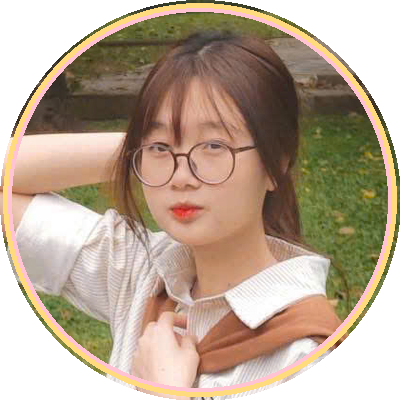
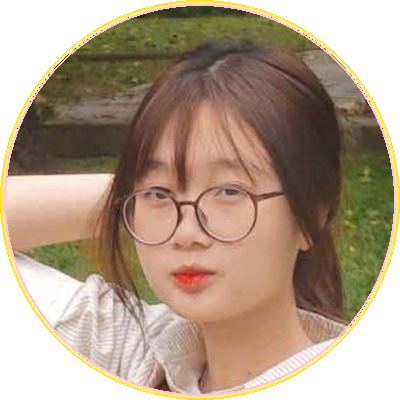
Nâng cấp vườn hoa Ánh Tuyết: hiển thị trọn vẹn 9 ảnh trên hoa, vườn hoa nở rộ dày dặn, sửa hoàn hảo bố cục album & căn chỉnh khuôn mặt chuẩn đẹp

diff --git a/main.js b/main.js
@@ -244,14 +244,14 @@ function buildGarden() {
 
   const flowerItems = [];
 
-  // TẦNG 1: Dưới thấp ôm chân vườn (Thoáng đãng, có thân cành vươn lên)
-  const countT1 = isMobile ? 8 : 13;
+  // TẦNG 1: Dưới thấp ôm chân vườn (Dày dặn, nhiều hoa như ban đầu)
+  const countT1 = isMobile ? 10 : 18;
   for (let i = 0; i < countT1; i++) {
     const xPct = (i / (countT1 - 1)) * 96 + 2 + (rand() * 4 - 2);
     flowerItems.push({
       xPct: Math.max(1, Math.min(99, xPct)),
-      sizePx: Math.floor((100 + rand() * 30) * sizeScale),
-      heightPx: Math.floor(containerHeight * (0.16 + rand() * 0.12)),
+      sizePx: Math.floor((95 + rand() * 30) * sizeScale),
+      heightPx: Math.floor(containerHeight * (0.15 + rand() * 0.13)),
       type: 'rose',
       layer: 28,
       palette: gardenPalette(i),
@@ -262,13 +262,13 @@ function buildGarden() {
   }
 
   // TẦNG 2: Tầm trung cận cảnh
-  const countT2 = isMobile ? 7 : 12;
+  const countT2 = isMobile ? 9 : 16;
   for (let i = 0; i < countT2; i++) {
     const xPct = ((i + 0.5) / countT2) * 94 + 3 + (rand() * 4 - 2);
     flowerItems.push({
       xPct: Math.max(2, Math.min(98, xPct)),
-      sizePx: Math.floor((110 + rand() * 28) * sizeScale),
-      heightPx: Math.floor(containerHeight * (0.30 + rand() * 0.14)),
+      sizePx: Math.floor((105 + rand() * 28) * sizeScale),
+      heightPx: Math.floor(containerHeight * (0.28 + rand() * 0.14)),
       type: 'rose',
       layer: 22,
       palette: gardenPalette(i + 2),
@@ -279,14 +279,14 @@ function buildGarden() {
   }
 
   // TẦNG 3: Tầng hoa vươn cao hé thân lá xanh
-  const countT3 = isMobile ? 6 : 11;
+  const countT3 = isMobile ? 8 : 14;
   for (let i = 0; i < countT3; i++) {
     const xPct = (i / (countT3 - 1)) * 94 + 3 + (rand() * 4 - 2);
-    if (Math.abs(xPct - 50) < 7) continue;
+    if (Math.abs(xPct - 50) < 6) continue;
     flowerItems.push({
       xPct: Math.max(2, Math.min(98, xPct)),
-      sizePx: Math.floor((88 + rand() * 26) * sizeScale),
-      heightPx: Math.floor(containerHeight * (0.46 + rand() * 0.14)),
+      sizePx: Math.floor((85 + rand() * 25) * sizeScale),
+      heightPx: Math.floor(containerHeight * (0.44 + rand() * 0.15)),
       type: 'rose',
       layer: 16,
       palette: gardenPalette(i + 4),
@@ -297,16 +297,16 @@ function buildGarden() {
   }
 
   // TẦNG 4: Hoa cúc xoắn và nụ hoa cao thanh thoát trên nền trời
-  const countT4 = isMobile ? 5 : 8;
+  const countT4 = isMobile ? 6 : 11;
   for (let i = 0; i < countT4; i++) {
     const xPct = (i / (countT4 - 1)) * 92 + 4 + (rand() * 4 - 2);
-    if (Math.abs(xPct - 50) < 9) continue;
+    if (Math.abs(xPct - 50) < 7) continue;
     const r = rand();
     const type = r < 0.4 ? 'button' : (r < 0.75 ? 'bud' : 'rose');
     flowerItems.push({
       xPct: Math.max(2, Math.min(98, xPct)),
-      sizePx: Math.floor((type === 'bud' ? 46 : 60 + rand() * 25) * sizeScale),
-      heightPx: Math.floor(containerHeight * (0.62 + rand() * 0.16)),
+      sizePx: Math.floor((type === 'bud' ? 44 : 58 + rand() * 24) * sizeScale),
+      heightPx: Math.floor(containerHeight * (0.60 + rand() * 0.17)),
       type,
       layer: 10,
       palette: gardenPalette(i + 1),
@@ -317,13 +317,13 @@ function buildGarden() {
   }
 
   // NỤ HOA ĐIỂM XUYẾT MÀU SẮC
-  const budCount = isMobile ? 4 : 7;
+  const budCount = isMobile ? 5 : 9;
   for (let i = 0; i < budCount; i++) {
     const xPct = ((i + 0.5) / budCount) * 94 + 3 + (rand() * 4 - 2);
     flowerItems.push({
       xPct: Math.max(2, Math.min(98, xPct)),
-      sizePx: Math.floor((42 + rand() * 14) * sizeScale),
-      heightPx: Math.floor(containerHeight * (0.35 + rand() * 0.25)),
+      sizePx: Math.floor((40 + rand() * 14) * sizeScale),
+      heightPx: Math.floor(containerHeight * (0.34 + rand() * 0.25)),
       type: 'bud',
       budVariant: BUD_VARIANTS[i % BUD_VARIANTS.length],
       layer: 14,
@@ -334,23 +334,32 @@ function buildGarden() {
     });
   }
 
-  // 5 ĐÓA HOA CÔNG CHÚA CỦA ÁNH TUYẾT - TO VÀ RÕ NÉT CẬN MẶT
+  // 9 ĐÓA HOA CÔNG CHÚA CỦA ÁNH TUYẾT - HIỂN THỊ ĐỦ TRỌN BỘ 9 ẢNH TRÊN HOA!
   const photos = TUYET_CONFIG.photos;
-  const cameoSize = Math.floor(isMobile ? 124 * sizeScale : 158 * sizeScale);
+  const cameoSize = Math.floor(isMobile ? 116 * sizeScale : 148 * sizeScale);
 
   const goldenCameoPositions = isMobile ? [
-    { xPct: 18, hRatio: 0.38, photoIdx: 0, layer: 36 },
-    { xPct: 82, hRatio: 0.38, photoIdx: 1, layer: 36 },
-    { xPct: 32, hRatio: 0.24, photoIdx: 2, layer: 38 },
-    { xPct: 68, hRatio: 0.24, photoIdx: 3, layer: 38 },
-    { xPct: 50, hRatio: 0.55, photoIdx: 4, layer: 35 }
+    // 9 vị trí hoa trên Mobile phân bổ 3 tầng hình quả trám thanh thoát
+    { xPct: 18, hRatio: 0.58, photoIdx: 0, layer: 34, bend: -3 },
+    { xPct: 82, hRatio: 0.58, photoIdx: 1, layer: 34, bend: 3 },
+    { xPct: 32, hRatio: 0.42, photoIdx: 2, layer: 36, bend: -4 },
+    { xPct: 68, hRatio: 0.42, photoIdx: 3, layer: 36, bend: 4 },
+    { xPct: 50, hRatio: 0.52, photoIdx: 4, layer: 35, bend: 0 },
+    { xPct: 14, hRatio: 0.28, photoIdx: 5, layer: 38, bend: -3 },
+    { xPct: 86, hRatio: 0.28, photoIdx: 6, layer: 38, bend: 3 },
+    { xPct: 34, hRatio: 0.18, photoIdx: 7, layer: 42, bend: -2 },
+    { xPct: 66, hRatio: 0.18, photoIdx: 8, layer: 42, bend: 2 }
   ] : [
-    { xPct: 16, hRatio: 0.42, photoIdx: 0, layer: 36 },
-    { xPct: 34, hRatio: 0.26, photoIdx: 1, layer: 38 },
-    { xPct: 66, hRatio: 0.26, photoIdx: 2, layer: 38 },
-    { xPct: 84, hRatio: 0.42, photoIdx: 3, layer: 36 },
-    { xPct: 25, hRatio: 0.58, photoIdx: 4, layer: 35 },
-    { xPct: 75, hRatio: 0.58, photoIdx: 5 % photos.length, layer: 35 }
+    // 9 vị trí hoa trên Desktop trải dài từ trái sang phải
+    { xPct: 8,  hRatio: 0.44, photoIdx: 0, layer: 36, bend: -4 },
+    { xPct: 18, hRatio: 0.26, photoIdx: 1, layer: 38, bend: 3 },
+    { xPct: 29, hRatio: 0.58, photoIdx: 2, layer: 34, bend: -5 },
+    { xPct: 40, hRatio: 0.24, photoIdx: 3, layer: 40, bend: 2 },
+    { xPct: 50, hRatio: 0.62, photoIdx: 4, layer: 35, bend: 0 },
+    { xPct: 60, hRatio: 0.24, photoIdx: 5, layer: 40, bend: -2 },
+    { xPct: 71, hRatio: 0.58, photoIdx: 6, layer: 34, bend: 5 },
+    { xPct: 82, hRatio: 0.26, photoIdx: 7, layer: 38, bend: -3 },
+    { xPct: 92, hRatio: 0.44, photoIdx: 8, layer: 36, bend: 4 }
   ];
 
   goldenCameoPositions.forEach((pos, idx) => {
@@ -362,7 +371,7 @@ function buildGarden() {
       type: 'rose',
       layer: pos.layer,
       palette: gardenPalette(idx * 2),
-      bend: (idx % 2 === 0 ? -4 : 4),
+      bend: pos.bend || (idx % 2 === 0 ? -4 : 4),
       stemLengthPx: Math.floor((90 + (idx % 2) * 20) * sizeScale),
       hasStem: true,
       photoFriend: photoItem.id

diff --git a/style.css b/style.css
@@ -1537,8 +1537,9 @@ html, body {
    ========================================================================== */
 .friend-modal-box {
   position: relative;
-  max-width: 370px;
-  padding: 26px 24px 22px;
+  max-width: 440px;
+  width: 92vw;
+  padding: 24px 20px 20px;
   text-align: center;
   border-radius: 26px;
   background: #fffdfb;
@@ -1563,18 +1564,19 @@ html, body {
 .friend-modal-photo-wrap {
   position: relative;
   width: 100%;
-  max-width: 260px;
+  max-width: 380px;
   margin: 0 auto 12px;
-  border-radius: 20px;
+  border-radius: 18px;
   overflow: hidden;
-  box-shadow: 0 10px 28px rgba(90, 20, 45, 0.25);
-  border: 4px solid #ffffff;
+  box-shadow: 0 10px 28px rgba(90, 20, 45, 0.22);
+  border: 3.5px solid #ffffff;
+  background: linear-gradient(145deg, #24141c, #3a1d2b);
 }
 
 .friend-modal-img {
   width: 100%;
-  max-height: 300px;
-  object-fit: cover;
+  max-height: 52vh;
+  object-fit: contain;
   display: block;
 }
 
@@ -2559,3 +2561,157 @@ html, body {
   backface-visibility: hidden;
   perspective: 1000px;
 }
+
+
+/* --- ALBUM POLAROID CARD REFINED (KHONG BI CAT NUA) --- */
+.album-masonry-grid {
+  display: grid;
+  grid-template-columns: repeat(3, 1fr);
+  gap: 20px;
+  margin: 16px 0 24px;
+}
+
+.album-polaroid-card {
+  position: relative;
+  background: #ffffff;
+  padding: 12px 12px 14px;
+  border-radius: 16px;
+  box-shadow: 0 8px 24px rgba(120, 40, 65, 0.12), 0 2px 6px rgba(0, 0, 0, 0.05);
+  border: 1.5px solid rgba(240, 205, 218, 0.75);
+  cursor: pointer;
+  transition: all 0.35s cubic-bezier(0.18, 0.89, 0.32, 1.28);
+  display: flex;
+  flex-direction: column;
+}
+
+.album-polaroid-card:nth-child(even) {
+  transform: rotate(1.4deg);
+}
+
+.album-polaroid-card:nth-child(odd) {
+  transform: rotate(-1.4deg);
+}
+
+.album-polaroid-card:hover {
+  transform: scale(1.05) translateY(-6px) rotate(0deg) !important;
+  box-shadow: 0 16px 36px rgba(210, 60, 110, 0.22) !important;
+  border-color: #f7a8be !important;
+  z-index: 10;
+}
+
+.album-polaroid-tape {
+  position: absolute;
+  top: -8px;
+  left: 50%;
+  transform: translateX(-50%);
+  width: 54px;
+  height: 16px;
+  background: rgba(255, 225, 120, 0.88);
+  border: 1px dashed rgba(210, 160, 30, 0.65);
+  border-radius: 2px;
+  box-shadow: 0 2px 6px rgba(0,0,0,0.1);
+  z-index: 5;
+}
+
+.album-polaroid-media {
+  position: relative;
+  width: 100%;
+  aspect-ratio: 4 / 4.8;
+  border-radius: 10px;
+  overflow: hidden;
+  background: #fdf2f4;
+  border: 1px solid rgba(0, 0, 0, 0.04);
+}
+
+.album-polaroid-img {
+  width: 100%;
+  height: 100%;
+  object-fit: cover;
+  object-position: center 25%;
+  display: block;
+  transition: transform 0.4s ease;
+}
+
+.album-polaroid-card:hover .album-polaroid-img {
+  transform: scale(1.06);
+}
+
+.album-media-badge {
+  position: absolute;
+  bottom: 8px;
+  left: 8px;
+  right: 8px;
+  background: rgba(255, 255, 255, 0.94);
+  backdrop-filter: blur(6px);
+  padding: 4px 8px;
+  border-radius: 999px;
+  font-size: 11px;
+  font-weight: 700;
+  color: #a43258;
+  text-align: center;
+  box-shadow: 0 2px 8px rgba(0,0,0,0.12);
+  white-space: nowrap;
+  overflow: hidden;
+  text-overflow: ellipsis;
+}
+
+.album-polaroid-desc {
+  padding-top: 10px;
+  display: flex;
+  flex-direction: column;
+  flex-grow: 1;
+}
+
+.album-card-title {
+  font-family: var(--font-serif);
+  font-size: 13.5px;
+  font-weight: 700;
+  color: #4a202a;
+  text-align: center;
+  margin: 0 0 4px;
+}
+
+.album-card-wish {
+  font-size: 11px;
+  color: #7b4f5b;
+  line-height: 1.45;
+  text-align: center;
+  margin: 0 0 10px;
+  display: -webkit-box;
+  -webkit-line-clamp: 2;
+  -webkit-box-orient: vertical;
+  overflow: hidden;
+}
+
+.album-card-action {
+  display: flex;
+  align-items: center;
+  justify-content: space-between;
+  margin-top: auto;
+  padding-top: 6px;
+  border-top: 1px dashed rgba(220, 180, 195, 0.6);
+  font-size: 11px;
+}
+
+.album-date {
+  color: #9a6574;
+  font-weight: 600;
+}
+
+.btn-album-zoom {
+  background: linear-gradient(135deg, #ff9ebb, #e05378);
+  color: #ffffff;
+  border: none;
+  border-radius: 999px;
+  padding: 4px 10px;
+  font-size: 11px;
+  font-weight: 700;
+  cursor: pointer;
+  box-shadow: 0 2px 8px rgba(224, 83, 120, 0.35);
+  transition: transform 0.2s ease;
+}
+
+.btn-album-zoom:hover {
+  transform: scale(1.08);
+}
+
